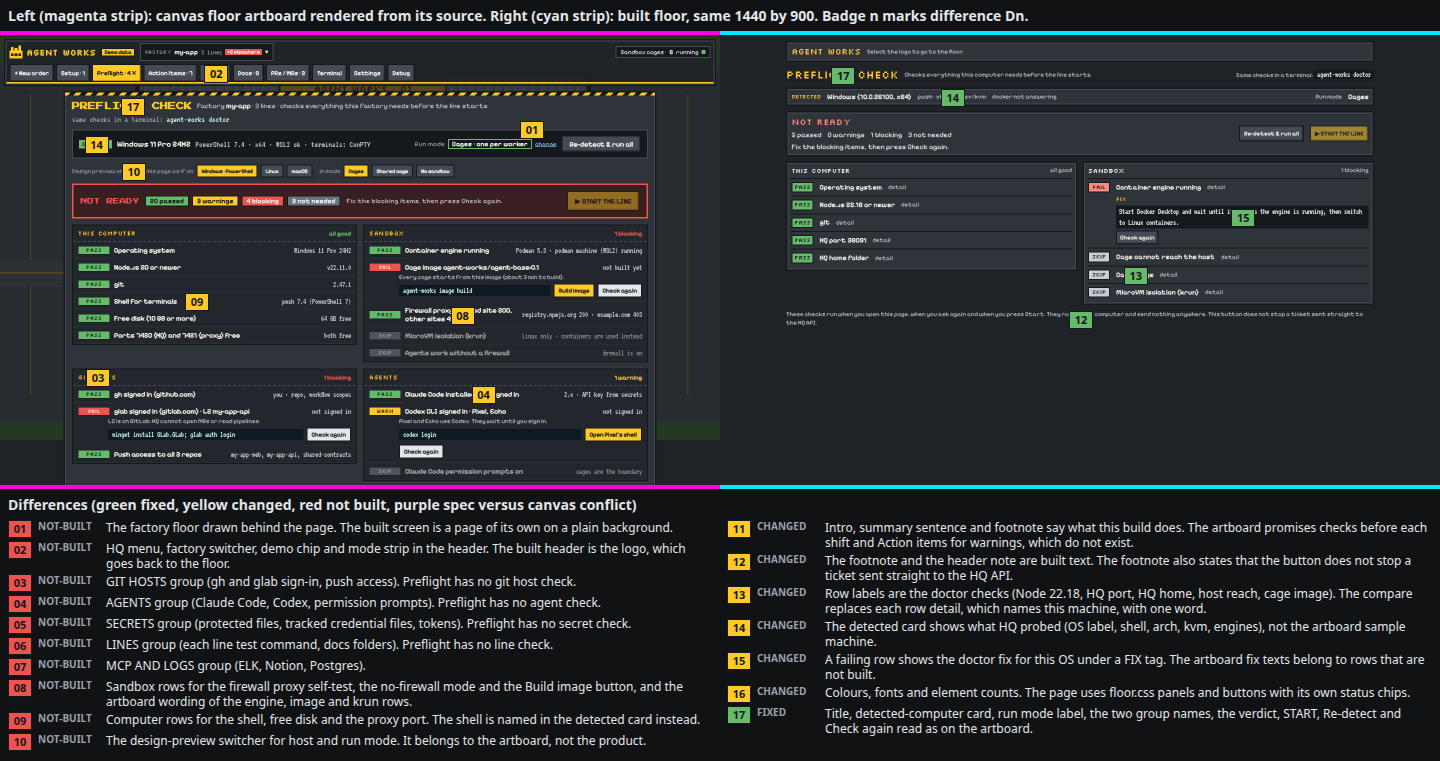
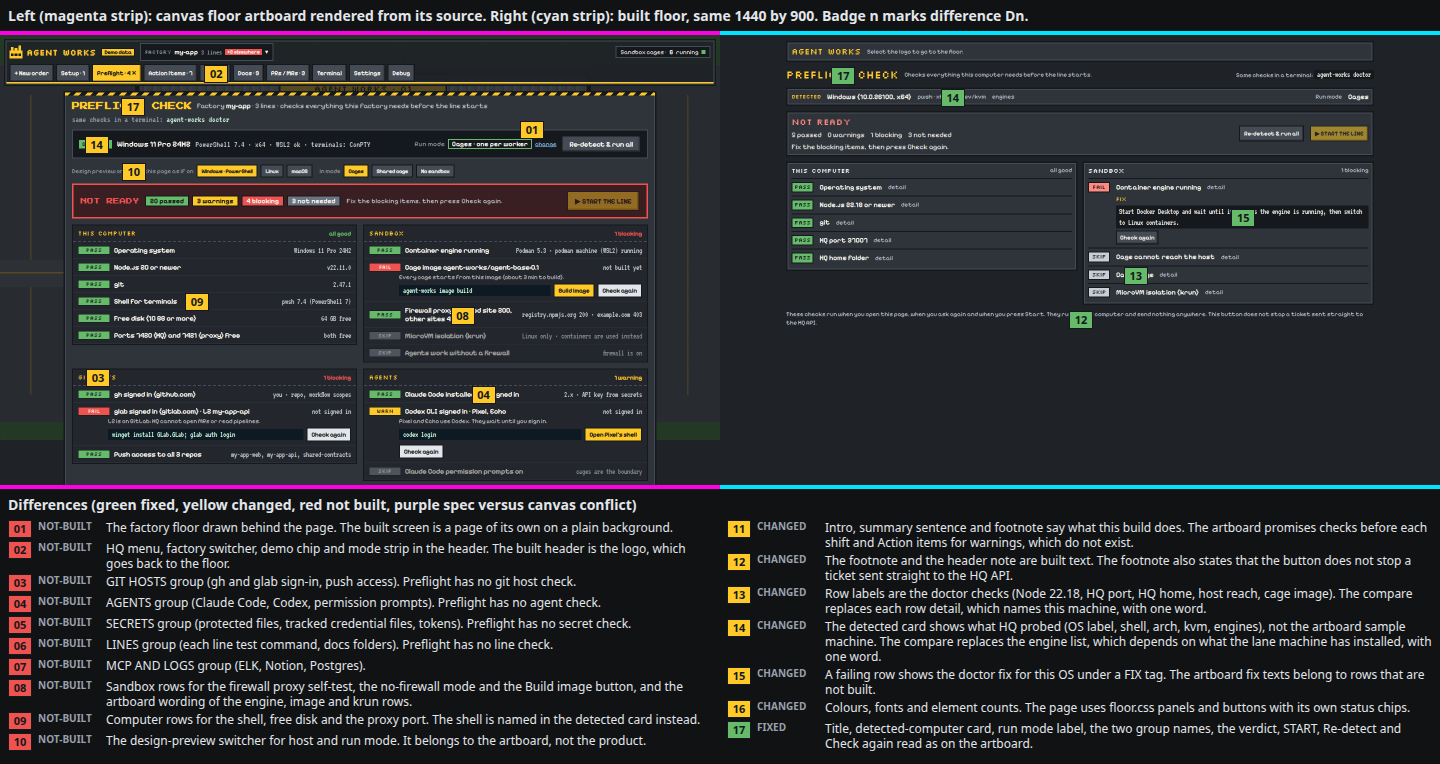
fix(src): keep installed engines out of the Preflight artboard inventory
The CI runner has podman beside docker, so the detected card listed one
more engine than the committed list allowed.

Claude-Session: https://claude.ai/code/session_01CKtN8uVD9ZpPq29JFwc7L8

diff --git a/src/screens/preflight/screen.tsx b/src/screens/preflight/screen.tsx
@@ -55,7 +55,9 @@ const Detected = ({ report }: { report: PreflightReport }) => {
       <span className="pf-mute">
         {[host.shell, host.arch, host.kvm ? t('preflight.kvm.yes') : t('preflight.kvm.no')].join(' · ')}
       </span>
-      <span className="pf-mute">{engines.length === 0 ? t('preflight.engine.none') : engines.join(' · ')}</span>
+      <span className="pf-mute" data-testid="pf-engines">
+        {engines.length === 0 ? t('preflight.engine.none') : engines.join(' · ')}
+      </span>
       <span className="pf-grow" />
       <span className="pf-mute">{t('preflight.runMode')}</span>
       <b>{t('preflight.cages')}</b>

diff --git a/docs/review/P3-10/Preflight-differences.md b/docs/review/P3-10/Preflight-differences.md
@@ -187,8 +187,8 @@ D12 | changed | - | when you press Start | The footnote and the header note are 
 D13 | changed | - | Cage image | Row labels are the doctor checks (Node 22.18, HQ port, HQ home, host reach, cage image). The compare replaces each row detail, which names this machine, with one word.
   covers: text:cage cannot reach the host ;; text:cage image ;; text:detail
   covers: text:hq home folder ;; text:hq port # ;; text:node.js #.# or newer
-D14 | changed | DETECTED | no /dev/kvm | The detected card shows what HQ probed (OS label, shell, arch, kvm, engines), not the artboard sample machine.
-  covers: text:docker not answering ;; text:pwsh · x# · no /dev/kvm ;; text:windows (#.#.#, x#)
+D14 | changed | DETECTED | no /dev/kvm | The detected card shows what HQ probed (OS label, shell, arch, kvm, engines), not the artboard sample machine. The compare replaces the engine list, which depends on what the lane machine has installed, with one word.
+  covers: text:engines ;; text:pwsh · x# · no /dev/kvm ;; text:windows (#.#.#, x#)
 D15 | changed | - | Start Docker Desktop and wait | A failing row shows the doctor fix for this OS under a FIX tag. The artboard fix texts belong to rows that are not built.
   covers: text:fix ;; text:start docker desktop and wait until it reports the engine is running, then switch to linux containers.
 D16 | changed | - | - | Colours, fonts and element counts. The page uses floor.css panels and buttons with its own status chips.

diff --git a/docs/review/P3-10/Preflight-pixel-regions.md b/docs/review/P3-10/Preflight-pixel-regions.md
@@ -3,7 +3,7 @@ Mean colour distance (0 to 441) per 12 by 9 cell of the 1440 by 900 canvas rende
 | row | C1 | C2 | C3 | C4 | C5 | C6 | C7 | C8 | C9 | C10 | C11 | C12 |
 | --- | --- | --- | --- | --- | --- | --- | --- | --- | --- | --- | --- | --- |
 | R1 | **50** | **45** | 34 | 21 | 30 | 17 | 23 | 7 | 9 | 11 | 7 | 18 |
-| R2 | 14 | 12 | 17 | 16 | 10 | 13 | 17 | 15 | 6 | 7 | 15 | 14 |
+| R2 | 14 | 12 | 17 | 16 | 11 | 16 | 17 | 15 | 6 | 7 | 15 | 14 |
 | R3 | 15 | 9 | 9 | 28 | 18 | 14 | 8 | 13 | 8 | 11 | 8 | 15 |
 | R4 | 15 | 37 | 28 | 35 | 35 | 22 | 23 | 26 | 20 | 31 | 38 | 15 |
 | R5 | 20 | 8 | 3 | 11 | 10 | 4 | 24 | 2 | 7 | 6 | 3 | 15 |
